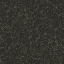
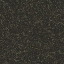
CHG map

diff --git a/main.py b/main.py
@@ -224,52 +224,59 @@ pollution_max_possible = pollution_initiale
 pollution_initiale = numpy.sum(Actual_map_pollution) # objectif de pollution
 pollution_max_possible = pollution_initiale
 
-Nom_img_simple = ["background_1.png","background_2.png","Bush_tile.png","pollution_texture.png","transparent.png"]
-Nom_image_list_tiles = [os.path.join(autres_tiles_dir,"background_1.png"),os.path.join(autres_tiles_dir,"background_2.png"),
-                        os.path.join(autres_tiles_dir,"Bush_tile.png"),os.path.join(autres_tiles_dir,"pollution_texture.png"),
-                        os.path.join(autres_tiles_dir,"transparent.png")]
-List_tiles = [CT.Tile(Nom_image_list_tiles[0],None,0),CT.Tile(Nom_image_list_tiles[0],None,90),CT.Tile(Nom_image_list_tiles[0],None,180),CT.Tile(Nom_image_list_tiles[0],None,270),\
-              CT.Tile(Nom_image_list_tiles[1],None,0),CT.Tile(Nom_image_list_tiles[1],None,90),CT.Tile(Nom_image_list_tiles[1],None,180),CT.Tile(Nom_image_list_tiles[1],None,270),\
-              CT.Tile(Nom_image_list_tiles[2],None,0),]
+# Nom_img_simple = ["background_1.png","background_2.png","Bush_tile.png","pollution_texture.png","transparent.png"]
+# Nom_image_list_tiles = [os.path.join(autres_tiles_dir,"background_1.png"),os.path.join(autres_tiles_dir,"background_2.png"),
+#                         os.path.join(autres_tiles_dir,"Bush_tile.png"),os.path.join(autres_tiles_dir,"pollution_texture.png"),
+#                         os.path.join(autres_tiles_dir,"transparent.png")]
 
-for img in os.listdir(batiments_tiles_dir): # ajout des images de tiles pr les batiments
-    Nom_img_simple.append(img)
-    Nom_image_list_tiles.append(os.path.join(batiments_tiles_dir,img))
-    List_tiles.append(CT.Tile(os.path.join(assets_dir,"Tiles","Batiment",img),None,0))
+### ENREGISTREMENT DES TILES
+tileset = []
+tileset_paths = []
+tileset_paths += [os.path.join(autres_tiles_dir,"background_1.png"),os.path.join(autres_tiles_dir,"background_2.png"),os.path.join(autres_tiles_dir,"background_3.png"),os.path.join(autres_tiles_dir,"background_4.png")]\
+               + [os.path.join(autres_tiles_dir,"background_5.png"),os.path.join(autres_tiles_dir,"background_6.png"),os.path.join(autres_tiles_dir,"background_7.png"),os.path.join(autres_tiles_dir,"background_8.png")]
 
-# D.list_dindice_avec_param_en_indice_0_1_vers_matrice(List_batiments[0])
-index_tiles = {name: i for i, name in enumerate(Nom_img_simple)}
-List_indice_batiments = []
+for i in range(len(tileset_paths)):
+    tile = tileset_paths[i]
+    tileset.append(CT.Tile(tile,None,0))
+
+dict_image_bats = {}
+for img in os.listdir(batiments_tiles_dir):
+    true_img = os.path.join(batiments_tiles_dir,img)
+    dict_image_bats[true_img] = len(tileset_paths)
+    tileset_paths.append(true_img)
+    tileset.append(CT.Tile(true_img,None,0))
+
 for bat in List_batiments:
-    indices = [index_tiles[name] for name in bat[2:] if name in index_tiles]
-    List_indice_batiments.append(indices)
+    temp_liste = []
+    x,y = bat[0],bat[1]
+    for elmt in bat[2:]:
 
-List_indice_batiments.append(indices)
-print(indices)
+        temp_liste.append(dict_image_bats[os.path.join(batiments_tiles_dir,elmt)])
+    new_bat = D.list_dindice_avec_param_en_indice_0_1_vers_matrice([int(x),int(y)]+temp_liste)
 
-List_final_indice_batiments = []
-Liste_de_matrice_de_bat = []
-for i in range(len(List_batiments)):
-    bat_actuel = List_batiments[i]
-    List_final_indice_batiments.append([int(bat_actuel[0]),int(bat_actuel[1]),*List_indice_batiments[i]])
-    print(List_final_indice_batiments[i])
-    Liste_de_matrice_de_bat.append(D.list_dindice_avec_param_en_indice_0_1_vers_matrice(List_final_indice_batiments[i]))
-print(Liste_de_matrice_de_bat)
+D.place_matrice_big_then_small(Actual_map,new_bat,(0,0))
+print(new_bat)
+print("liste")
+print(temp_liste)
 
-D.replace_matrice_big_then_small_addition(Actual_map,Liste_de_matrice_de_bat[0],(0,0))
-print(Actual_map[0,3])
-print(Actual_map)
+tileset_paths += [os.path.join(autres_tiles_dir,"Bush_tile.png"),os.path.join(autres_tiles_dir,"pollution_texture.png"),os.path.join(autres_tiles_dir,"transparent.png")]
+tileset += [CT.Tile(os.path.join(autres_tiles_dir,"Bush_tile.png"),None,0),CT.Tile(os.path.join(autres_tiles_dir,"pollution_texture.png"),None,0),CT.Tile(os.path.join(autres_tiles_dir,"transparent.png"),None,0)]
 
 
-liste_tile_needed = [CT.Tile(Nom_image_list_tiles[3],None,0),CT.Tile(Nom_image_list_tiles[4],None,0)] # ajout des elements necessaires
-List_tiles += liste_tile_needed
 
-print(Actual_map.shape[0])
 
+
+
+
+
+
+
+
+### AUTRES
 List_ground_objets = []
 pomme = CO.Consumable("apple.png","Pomme","Une pomme bien délicieuse")
 List_ground_objets.append((pomme,(300,200)))
-Bush_basique = CO.Plant("bush.png","Buisson","Ce buisson permet de cultiver des pommes",List_tiles[2],8)
+Bush_basique = CO.Plant("bush.png","Buisson","Ce buisson permet de cultiver des pommes",tileset[len(tileset)-3],8)
 bush = Bush_basique
 Liste_bush_on_map = []
 
@@ -421,12 +428,13 @@ while running:
         coin_bas = (math.ceil((Robot.pos[0]+W_2)/LEN_SQUARE),math.ceil((Robot.pos[1]+H_2)/LEN_SQUARE))
 
         # print(Actual_map[int(Robot.pos[0]//64),int(Robot.pos[1]//64)])
+        # print(List_tiles[Actual_map[0,0]].path)
         for y in range(max(coin_haut[1],0),min(coin_bas[1],Actual_map.shape[0])): # montre la map
             for x in range(max(coin_haut[0],0),min(coin_bas[0],Actual_map.shape[1])):
-                List_tiles[Actual_map[x,y]].blit_self(screen,(x*LEN_SQUARE-Robot.pos[0]+W_2, y*LEN_SQUARE-Robot.pos[1]+H_2))
-                List_tiles[Actual_map_objects_layer[x,y]].blit_self(screen,(x*LEN_SQUARE-Robot.pos[0]+W_2, y*LEN_SQUARE-Robot.pos[1]+H_2))
+                tileset[Actual_map[x,y]].blit_self(screen,(x*LEN_SQUARE-Robot.pos[0]+W_2, y*LEN_SQUARE-Robot.pos[1]+H_2))
+                tileset[Actual_map_objects_layer[x,y]].blit_self(screen,(x*LEN_SQUARE-Robot.pos[0]+W_2, y*LEN_SQUARE-Robot.pos[1]+H_2))
                 if can_see_pollution:
-                    tile_surface = List_tiles[-2].image.copy()
+                    tile_surface = tileset[-2].image.copy()
                     tile_surface.set_alpha(Actual_map_pollution[x,y]*10)
                     screen.blit(tile_surface,(x*LEN_SQUARE-Robot.pos[0]+W_2, y*LEN_SQUARE-Robot.pos[1]+H_2))
 

diff --git a/classes/Test_def.py b/classes/Test_def.py
@@ -1,10 +1,11 @@
 import numpy as np
 import random
+
 def place_matrice_big_then_small(matrice,house_matrice,positions):
     for true_y in range(house_matrice.shape[0]):
         for true_x in range(house_matrice.shape[1]):
-            if 0 <= positions[1]+true_y < matrice.shape[1] and 0 <= positions[0]+true_x < matrice.shape[0]:
-                matrice[positions[1]+true_y,positions[0]+true_x] = house_matrice[true_y,true_x]
+            if 0 <= positions[1]+true_y < matrice.shape[0] and 0 <= positions[0]+true_x < matrice.shape[1]:
+                matrice[positions[1]+true_x,positions[0]+true_x] = house_matrice[true_y,true_x]
     return matrice
 
 def place_matrice_big_then_small_addition(matrice,house_matrice,positions):
@@ -14,7 +15,7 @@ def place_matrice_big_then_small_addition(matrice,house_matrice,positions):
                 matrice[positions[1]+true_y,positions[0]+true_x] += house_matrice[true_y,true_x]
     return matrice
 
-def replace_matrice_big_then_small_addition(matrice,house_matrice,positions):
+def replace_matrice_big_then_small(matrice,house_matrice,positions):
     for true_y in range(house_matrice.shape[0]):
         for true_x in range(house_matrice.shape[1]):
             if 0 <= positions[1]+true_y < matrice.shape[0] and 0 <= positions[0]+true_x < matrice.shape[1]:
@@ -63,7 +64,7 @@ def list_dindice_avec_param_en_indice_0_1_vers_matrice(LaListe):
 
     data = np.array(LaListe[2:], dtype=np.int32)
 
-    return data.reshape((width, height))
+    return data.reshape((height, width))
 
 # mat = create_round_matrice(5)
 # for row in mat:

diff --git a/classes/Test_classe_tile.py b/classes/Test_classe_tile.py
@@ -19,7 +19,8 @@ img_dir = os.path.join(assets_dir,"Tiles")
 class Tile:
     def __init__(self,image,list_images,rotate):
         if image != None:
-            self.image = pygame.image.load(os.path.join(img_dir, image)).convert_alpha()
+            self.path = image
+            self.image = pygame.image.load(os.path.join(img_dir, self.path)).convert_alpha()
             self.image = pygame.transform.rotate(self.image,rotate)
             self.image = pygame.transform.scale(self.image,(64,64))
         else:
